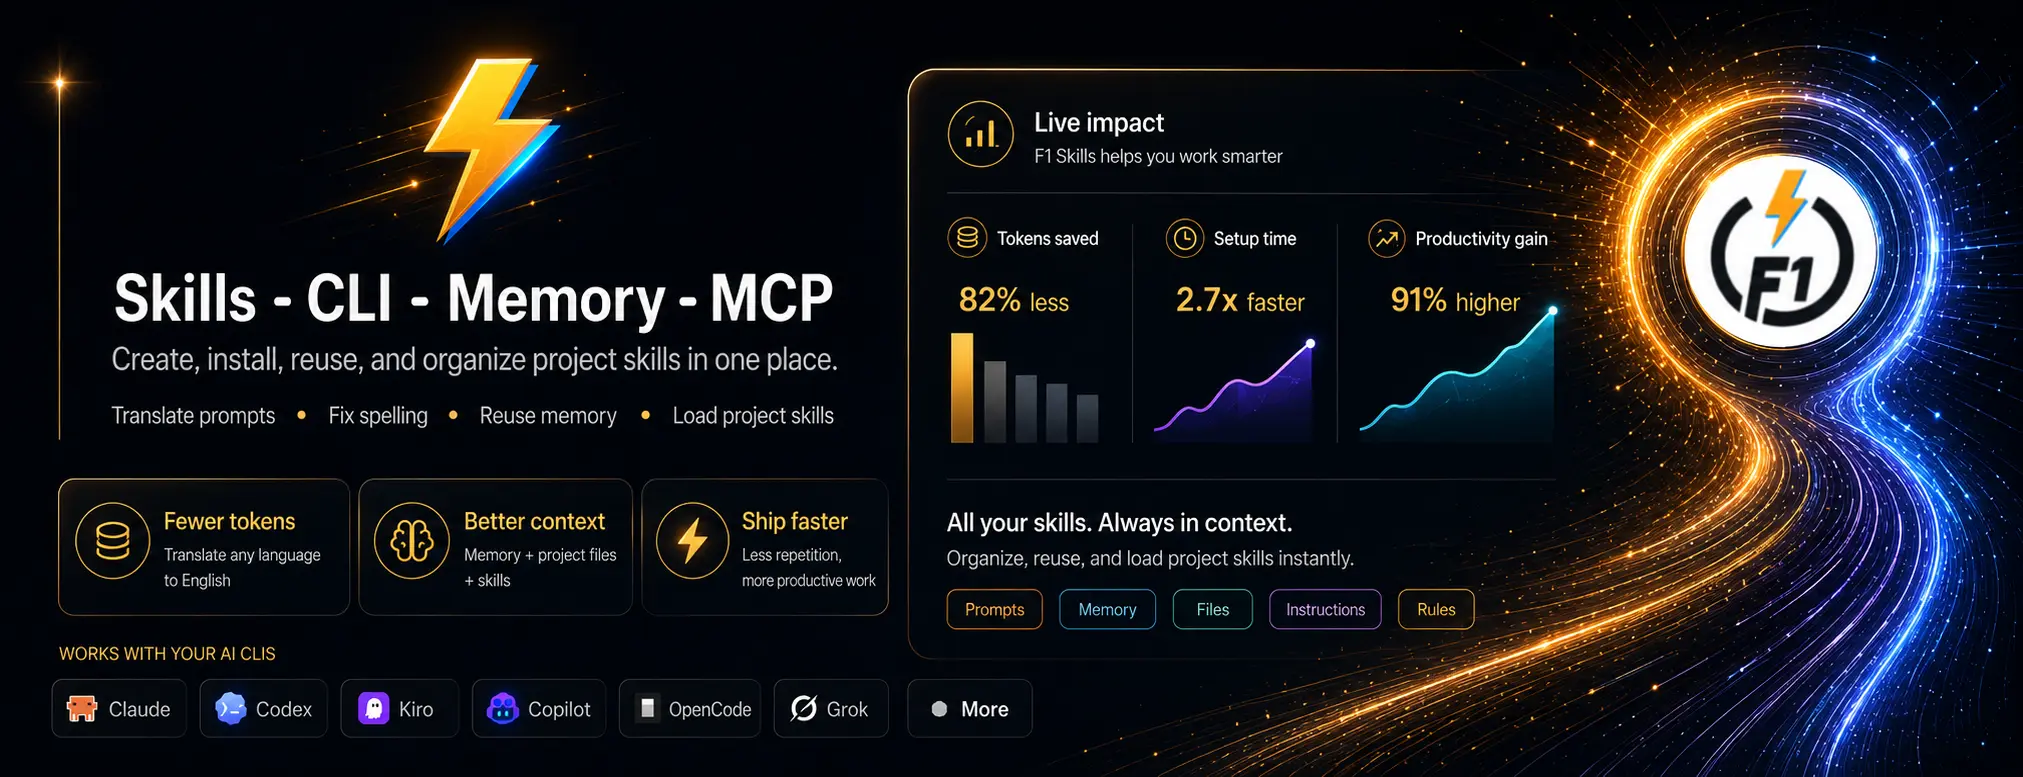
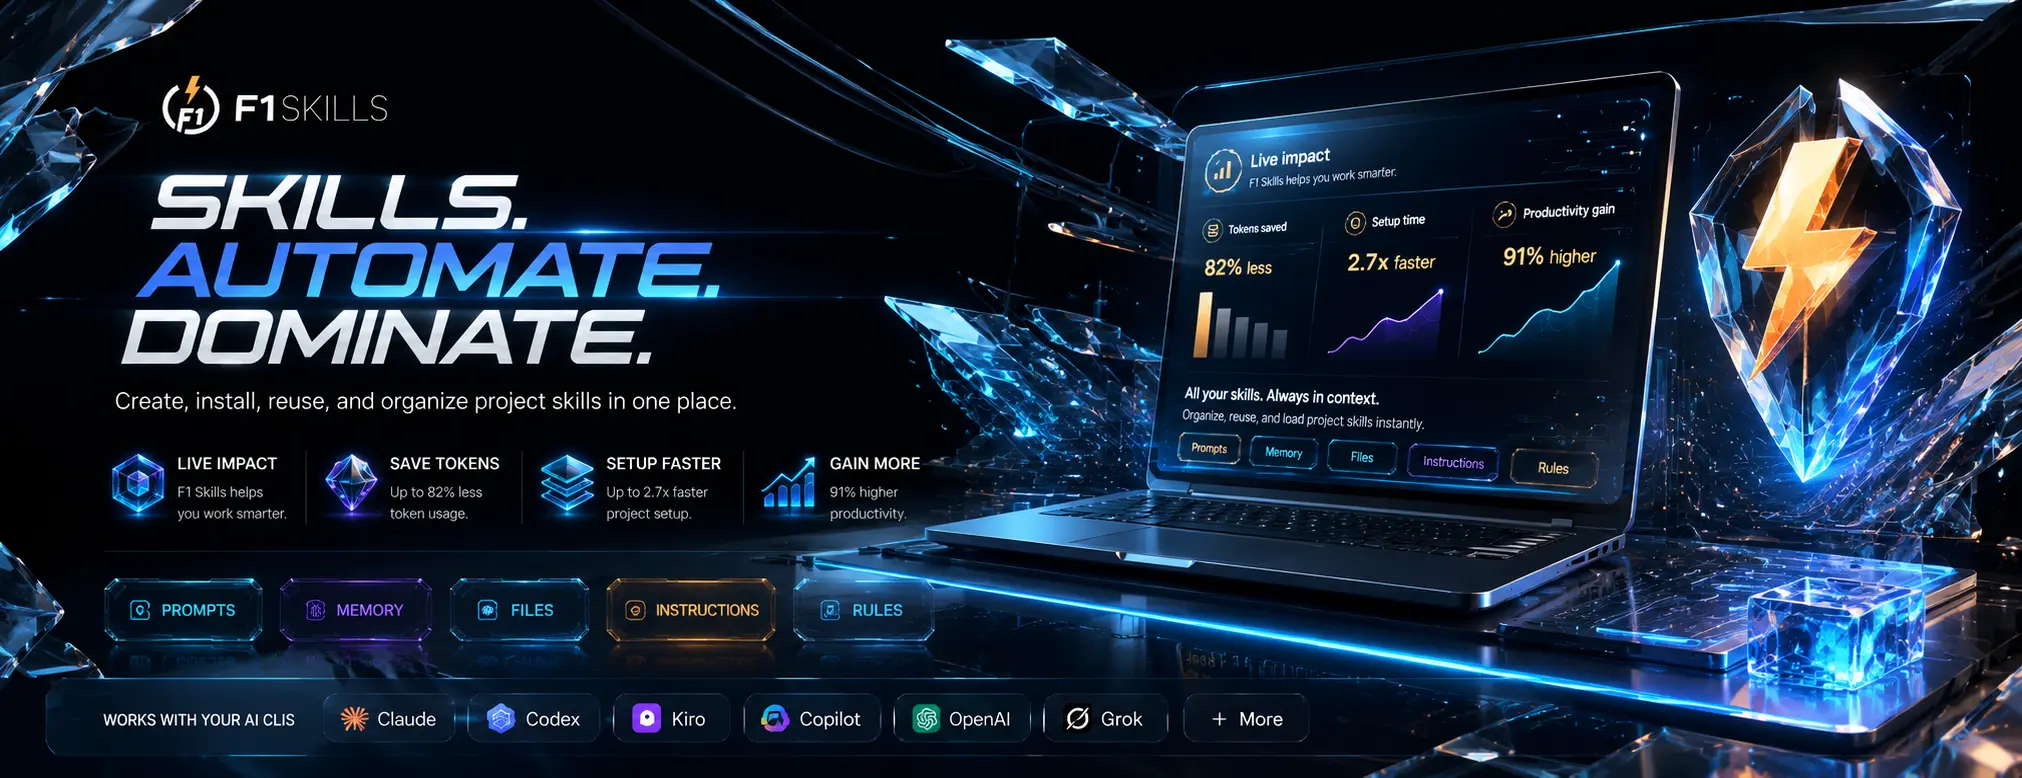
Merge pull request #115 from bastndev/dev
Dev

Pull request: Dev

diff --git a/README.md b/README.md
@@ -1,16 +1,29 @@
 <div align="center">
 
-<img src="icon.png" alt="F1" width="96" />
+![Lynx F1](https://raw.githubusercontent.com/bastndev/F1/refs/heads/main/public/banner.webp)
 
-# F1
+<p>
+  <img src="https://vsmarketplacebadges.dev/version-short/bastndev.f1.jpg?style=for-the-badge&colorA=000000&colorB=FFFFFF&label=VERSION" alt="Version">&nbsp;
+  <img src="https://vsmarketplacebadges.dev/downloads-short/bastndev.f1.jpg?style=for-the-badge&colorA=000000&colorB=FFFFFF&label=Downloads" alt="Downloads">&nbsp;
+  <img src="https://vsmarketplacebadges.dev/rating-short/bastndev.f1.jpg?style=for-the-badge&colorA=000000&colorB=FFFFFF&label=RATING" alt="Rating">&nbsp;
+  <a href="https://github.com/bastndev/F1"><img src="https://raw.githubusercontent.com/bastndev/F1/refs/heads/main/public/github/icons/star.png" width="26.6px" alt="Github Star ⭐️"></a>
+</p>
+
+<p >
+  <a href="https://github.com/bastndev/F1/blob/main/public/docs/README_ES.md">Español 🇪🇸</a> |
+  <a href="https://github.com/bastndev/F1/blob/main/public/docs/README_ZH.md">中文 🇨🇳</a> |
+  <a href="https://github.com/bastndev/F1/blob/main/public/docs/README_DE.md">Deutsch 🇩🇪</a> |
+  <a href="https://github.com/bastndev/F1/blob/main/public/docs/README_FR.md">Français 🇫🇷</a> |
+  <a href="https://github.com/bastndev/F1/blob/main/public/docs/README_JA.md">日本語 🇯🇵</a> |
+  <a href="https://github.com/bastndev/F1/blob/main/public/docs/README_KO.md">한국어 🇰🇷</a> |
+  <a href="https://github.com/bastndev/F1/blob/main/public/docs/README_PT.md">Português 🇧🇷</a> |
+  <a href="https://github.com/bastndev/F1/blob/main/public/docs/README_RU.md">Русский 🇷🇺</a> |
+  <a href="https://github.com/bastndev/F1/blob/main/public/docs/README_VI.md">Tiếng Việt 🇻🇳</a> |
+  <a href="https://github.com/bastndev/F1/blob/main/public/docs/README_HI.md">हिन्दी 🇮🇳</a> |
+  <a href="https://github.com/bastndev/F1/blob/main/public/docs/README_AR.md">العربية 🇸🇦</a><span>...</span>
+</p>
 
 **Launch and manage every AI coding CLI from one VS Code panel.**
-
-Available now on VS Code • Cursor • Windsurf • Trae.ai • Kiro • Firebase Studio
-
-[![Version](https://img.shields.io/visual-studio-marketplace/v/bastndev.f1?color=0a0a0a&label=Marketplace)](https://marketplace.visualstudio.com/items?itemName=bastndev.f1)
-[![Installs](https://img.shields.io/visual-studio-marketplace/i/bastndev.f1?color=0a0a0a)](https://marketplace.visualstudio.com/items?itemName=bastndev.f1)
-[![License](https://img.shields.io/badge/license-MIT-0a0a0a.svg)](LICENSE)
 
 </div>
 
@@ -18,9 +31,10 @@ Available now on VS Code • Cursor • Windsurf • Trae.ai • Kiro • Fireba
 
 F1 turns VS Code into a hub for AI coding agents. Open **Claude Code, Codex, Copilot, Cursor, Kiro, Kilo Code, OpenCode, Grok, Antigravity** — or any custom CLI — in embedded terminals, switch between them instantly, write better prompts, and keep your project's context cheap to load for every agent.
 
-## ✨ Features
+## |::: Features
 
 ### 🖥️ CLI Hub
+
 - Run multiple AI coding CLIs side by side in embedded [xterm.js](https://xtermjs.org/) terminals.
 - Fuzzy-search launcher to pick an agent; press **F1** to jump straight to the panel.
 - Built-in tools alongside every session:
@@ -31,11 +45,13 @@ F1 turns VS Code into a hub for AI coding agents. Open **Claude Code, Codex, Cop
 - **Voice** — read replies aloud, plus an optional "ding" when an agent finishes while your attention is elsewhere.
 
 ### 🧩 My Skills
+
 - Install skills from the marketplace — **All‑time**, **Trending (24h)**, **🔥 Flame**, and **Official** sources.
 - Create skills with guided generators for `AGENTS.md`, `CLAUDE.md`, and `DESIGN.md`, plus fast templates by category.
 - Manage local and saved skills per workspace.
 
 ### 🧠 My Memory
+
 - Generate a committed `.f1/` project‑context map so any CLI starts with cheap, shared context.
 - Per‑project toggle; instruction files (`AGENTS.md` / `CLAUDE.md`) stay pointed at the context.
 
@@ -50,11 +66,11 @@ F1 turns VS Code into a hub for AI coding agents. Open **Claude Code, Codex, Cop
 
 ## ⌨️ Keyboard shortcuts
 
-| Shortcut | Action |
-|---|---|
-| `F1` | Focus the CLI Hub panel |
-| `Ctrl+3` | Focus the My Skills panel |
-| `Ctrl+` `` ` `` | Toggle maximized panel |
+| Shortcut        | Action                    |
+| --------------- | ------------------------- |
+| `F1`            | Focus the CLI Hub panel   |
+| `Ctrl+3`        | Focus the My Skills panel |
+| `Ctrl+` `` ` `` | Toggle maximized panel    |
 
 ## 📋 Requirements
 